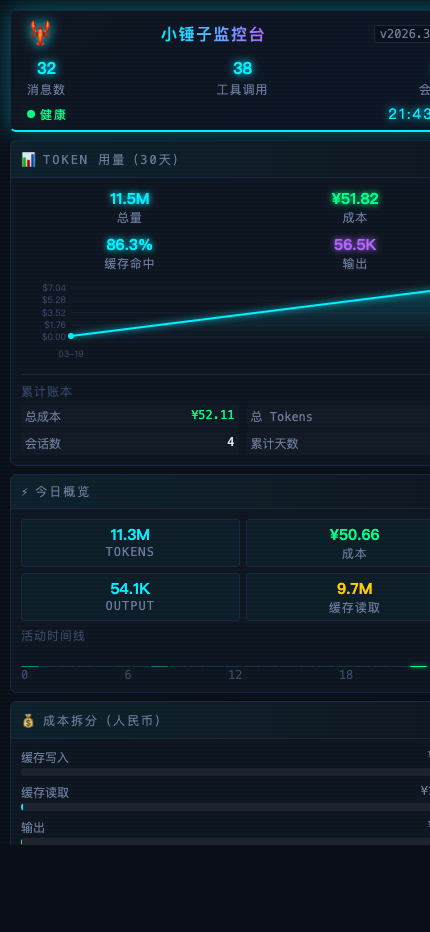
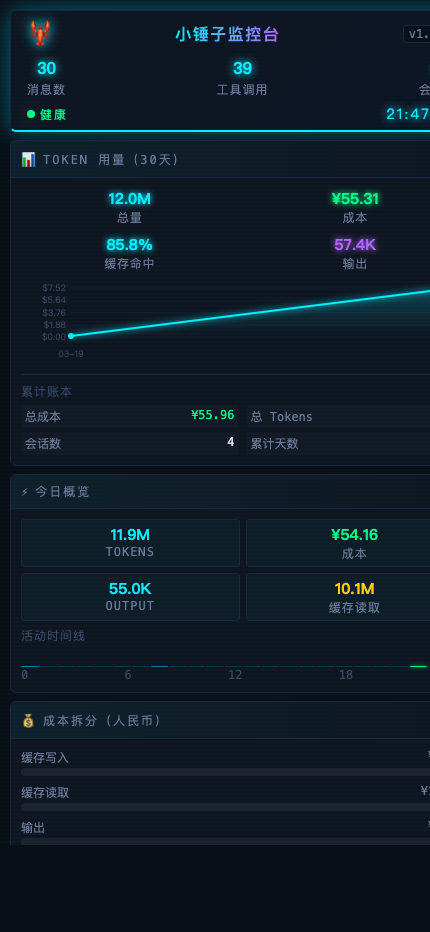
修正头部版本号与 PWA 缓存策略

diff --git a/packages/web/public/sw.js b/packages/web/public/sw.js
@@ -1,4 +1,4 @@
-const CACHE_NAME = 'xiaochuizi-dashboard-v1';
+const CACHE_NAME = 'xiaochuizi-dashboard-v2';
 const APP_SHELL = ['./', './manifest.webmanifest', './icons/icon-192.svg', './icons/icon-512.svg'];
 
 self.addEventListener('install', (event) => {
@@ -15,6 +15,19 @@ self.addEventListener('fetch', (event) => {
   const { request } = event;
   if (request.method !== 'GET') return;
   if (request.url.includes('/api/') || request.url.includes('/ws')) return;
+
+  if (request.mode === 'navigate') {
+    event.respondWith(
+      fetch(request)
+        .then((response) => {
+          const copy = response.clone();
+          caches.open(CACHE_NAME).then((cache) => cache.put('./', copy)).catch(() => {});
+          return response;
+        })
+        .catch(() => caches.match('./')),
+    );
+    return;
+  }
 
   event.respondWith(
     caches.match(request).then((cached) => cached || fetch(request).then((response) => {

diff --git a/packages/web/src/components/Header.tsx b/packages/web/src/components/Header.tsx
@@ -53,7 +53,7 @@ export function Header({ data }: HeaderProps) {
       <div className="header-left">
         <span className="logo">🦞</span>
         <h1>小锤子监控台</h1>
-        <span className="version">v{status?.runtimeVersion ?? '--'}</span>
+        <span className="version">v{APP_VERSION}</span>
       </div>
       <div className="header-center">
         <div className="live-counters">
